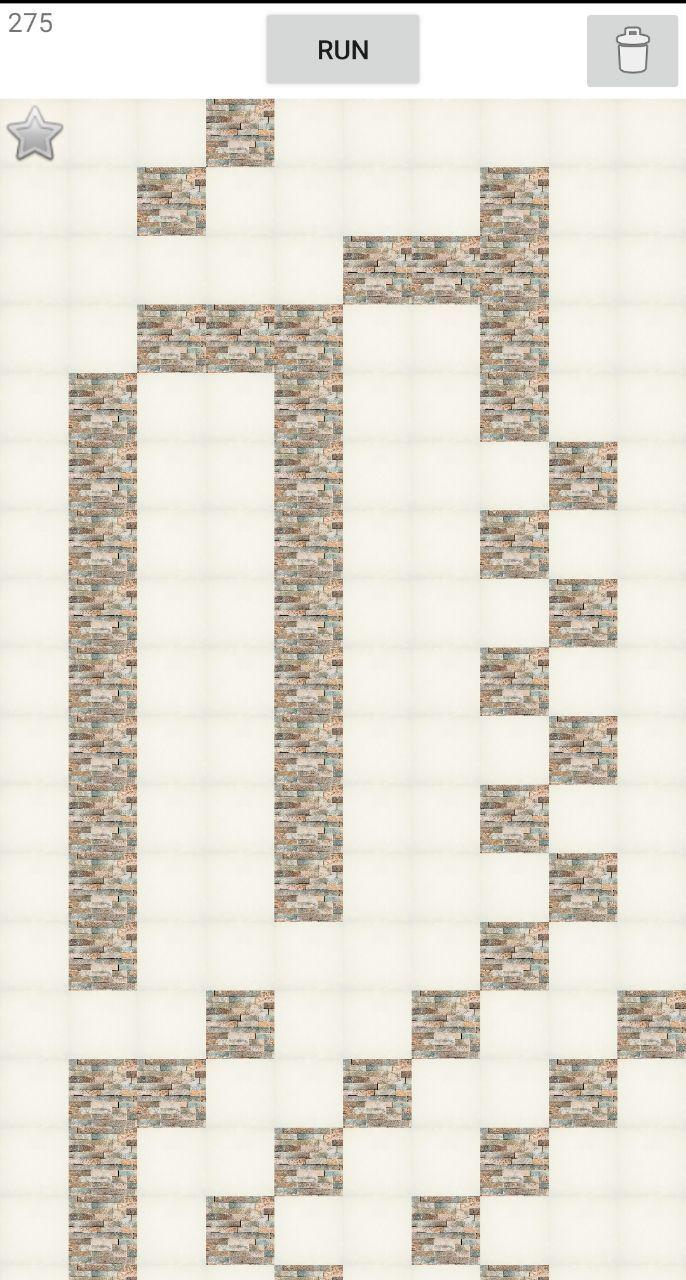
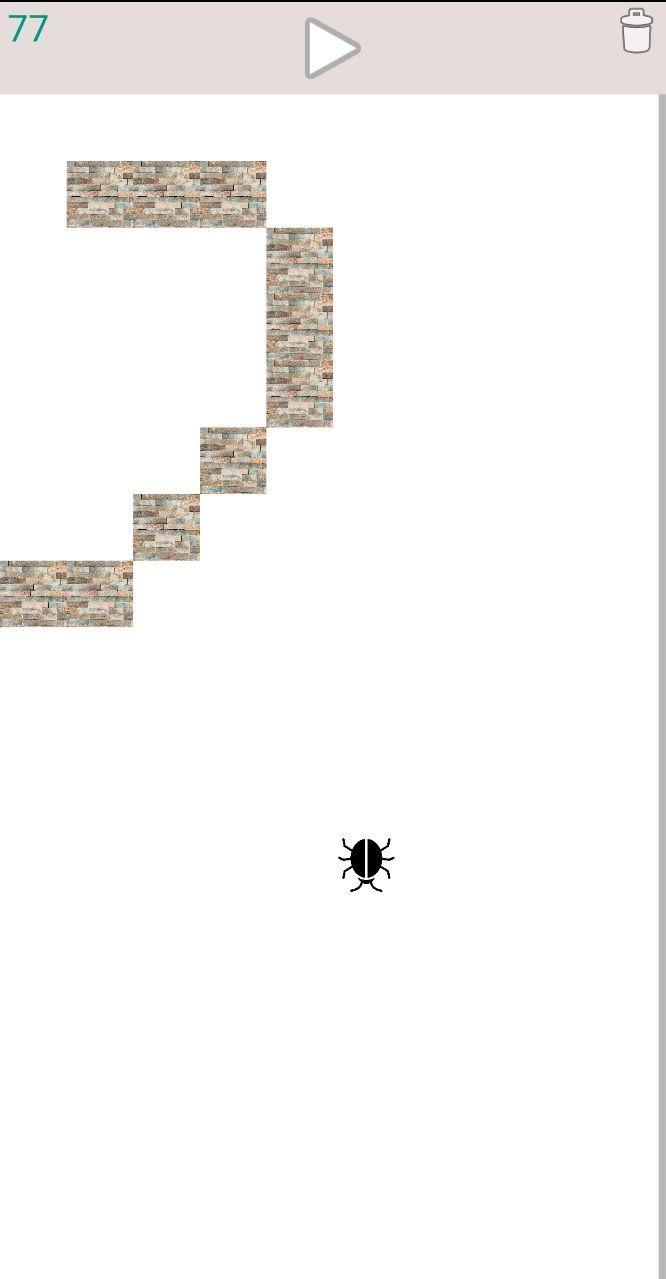
pictures and colours design update

diff --git a/app/src/main/java/com/example/beetle/Game.java b/app/src/main/java/com/example/beetle/Game.java
@@ -33,7 +33,8 @@ public class Game extends AppCompatActivity {
     void moveBack(ImageView beetle, CustomGridView table) {
         // ImageView beetle = findViewById(R.id.beetle);
         if (!isRunning) {
-            beetle.animate().translationX(0).translationY(getResources().getDimension(R.dimen.bar_height) - table.computeVerticalScrollOffset()).start();
+            beetle.animate().translationX(0).translationY(getResources().getDimension(R.dimen.bar_height) - table.computeVerticalScrollOffset()).rotation(180).start();
+
         }
     }
 
@@ -96,7 +97,7 @@ public class Game extends AppCompatActivity {
             }
         });
 
-        ImageButton clear = findViewById(R.id.clear);
+        ImageView clear = findViewById(R.id.clear);
         clear.setOnClickListener(new View.OnClickListener() {
             @Override
             public void onClick(View v) {
@@ -105,31 +106,46 @@ public class Game extends AppCompatActivity {
             }
         });
 
-        Button run = findViewById(R.id.run);
+        ImageView run = findViewById(R.id.run);
         run.setOnClickListener(new View.OnClickListener() {
             @Override
             public void onClick(View v) {
                 count[0] = 0;
-                counter.setText(count[0] + "");
+                counter.setText(String.valueOf(count[0]));
                 isRunning = true;
-                List<Move> moves = runner.run();
-                moves.add(new Move(0, 0));
-                final Iterator<Move> it = moves.iterator();
+                List<Vector> moves = runner.run();
+                final Iterator<Vector> it = moves.iterator();
                 Runnable draw = new Runnable() {
                     @Override
                     public void run() {
                         if (!it.hasNext()) {
                             isRunning = false;
+                            moveBack(beetle, table);
                             return;
                         }
                         count[0]++;
-                        counter.setText(count[0] + "");
-                        Move move = it.next();
+                        counter.setText(String.valueOf(count[0]));
+                        Vector vector = it.next();
+
+                        int rotation;
+
+                        if (vector.getDx() == 1) {
+                            rotation = 180;
+                        } else if (vector.getDx() == -1) {
+                            rotation = 0;
+                        } else if (vector.getDy() == 1) {
+                            rotation = 90;
+                        } else {
+                            rotation = 270;
+                        }
+
+                        beetle.animate().rotation(rotation);
+
                         beetle
                                 .animate()
-                                .translationX(adapter.getItemSize() * move.getC())
-                                .translationY(getResources().getDimension(R.dimen.bar_height) + adapter.getItemSize() * move.getR() - table.computeVerticalScrollOffset())
-                                .setDuration(50)
+                                .translationXBy(adapter.getItemSize() * vector.getDy())
+                                .translationYBy(adapter.getItemSize() * vector.getDx())
+                                .setDuration(getResources().getInteger(R.integer.speed))
                                 .withEndAction(this)
                                 .start();
 

diff --git a/app/src/main/java/com/example/beetle/runner/BeetleRunner.java b/app/src/main/java/com/example/beetle/runner/BeetleRunner.java
@@ -14,29 +14,32 @@ public class BeetleRunner implements Runner {
         this.grid = grid;
     }
 
+    private final static Vector[] nei = {
+            new Vector(1, 0),
+            new Vector(0, 1),
+            new Vector(-1, 0),
+            new Vector(0, -1)
+    };
+
     @Override
-    public List<Move> run() {
-        ArrayList<Move> res = new ArrayList<>();
-        Vector[] nei = {
-                new Vector(1, 0),
-                new Vector(0, 1),
-                new Vector(-1, 0),
-                new Vector(0, -1)
-        };
+    public List<Vector> run() {
+        ArrayList<Vector> res = new ArrayList<>();
         int[][] count = new int[grid.getN()][grid.getM()];
         Move cur = new Move(0, 0);
         while (cur.getR() + 1 != grid.getN() || cur.getC() + 1 != grid.getM()) {
             count[cur.getR()][cur.getC()]++;
-            Move bestMove = null;
+            Vector bestVector = null;
             int bestCount = Integer.MAX_VALUE;
             for (Vector vector : nei) {
                 Move move = cur.add(vector);
                 if (grid.isValid(move) && count[move.getR()][move.getC()] < bestCount && grid.getCell(move) == Cell.EMPTY) {
                     bestCount = count[move.getR()][move.getC()];
-                    bestMove = move;
+                    bestVector = vector;
                 }
             }
-            res.add(cur = bestMove);
+            res.add(bestVector);
+            assert bestVector != null;
+            cur = cur.add(bestVector);
         }
         return res;
     }

diff --git a/app/src/main/java/com/example/beetle/runner/Runner.java b/app/src/main/java/com/example/beetle/runner/Runner.java
@@ -6,6 +6,6 @@ import java.util.List;
 
 public interface Runner {
 
-    List<Move> run();
+    List<Vector> run();
 
 }

diff --git a/README.md b/README.md
@@ -1,5 +1,7 @@
 # Beetle Runs
 
+Игра на android.
+
 Цель игры - задержать жука в построенном вами лабиринте максимальное время. При этом лабиринт не должен быть замкнут, т.е. должен существовать выход для жучка. Выход находится в правом нижнем углу. Качество лабиринта определяется количеством ходов, которые требуются жуку для того, чтобы выбраться из лабиринта. Жук движется по особому алгоритму, далеко не оптимальному.
 
 Жук всегда начинает свое движение с левого верхнего угла, а выход всегда находится в правом нижнем. Жук движется не оптимально, а следующим образом: он идет туда, где еще не был, либо был там реже. Т.е. проходя каждую клетку лабиринта, жук запоминает: сколько раз он был в этой клетке и при обдумывании направления своего движения в какой то конкретный момент он смотрит: сколько раз он был в клетке снизу, сколько справа, сколько слева и сколько сверху и движется туда, где он был меньше раз. Если таких направлений несколько и одно из них совпадает с текущим направлением движения, то он не меняет направления, иначе он движется согласно следующим приоритетам: вниз, направо, вверх, налево. Т.е. если минимальное число посещений сразу справа и слева (а двигался он при этом вверх или вниз), то жук идет направо, т.к. у "направо" приоритет выше. Следует заметить, что двигаясь по данному алгоритму жук всегда достигнет выхода в том случае, когда выход существует.
